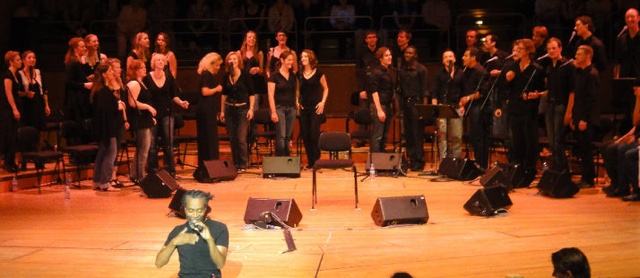
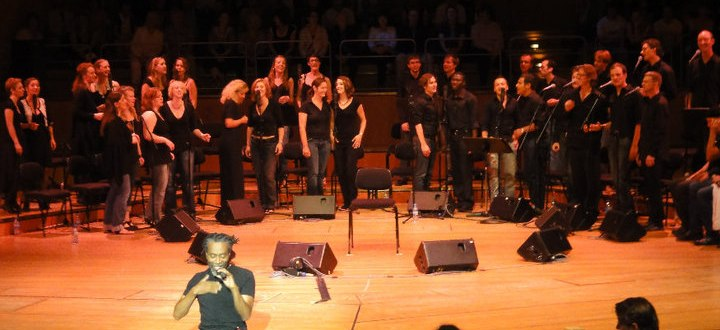
Update images sizes

diff --git a/index.html b/index.html
@@ -137,6 +137,7 @@
                   </p>
                 </div>
                 <div class="content" id="munich-wedding-singers">
+                  <img src="img/projects/munich-wedding-singers.jpg">
                   <h3 class="subtitle">// Munich Wedding Singers</h3>
                   <p>
                     Die Munich Wedding Singers sind ein freier Zusammenschluss von Sängern*innen, die auf Hochzeiten in der Kirche und/oder beim Sektempfang moderne Hochzeitslieder zum Besten geben. Die Besetzung kann nach individuellen Wünschen zusammen gestellt werden, von 2 Stimmen mit Gitarre bis zu 15 Stimmen a cappella ist alles möglich. Ebenso können Songwünsche des Brautpaares erfüllt werden.
@@ -175,6 +176,7 @@
                   </p>
                 </div>
                 <div class="content" id="diverses">
+                  <img src="img/projects/misc.jpg">
                   <h3 class="subtitle">// Diverses</h3>
                   <ul>
                     <li>Arrangeur, Sänger und Gitarrist für <a target="_blank" href="https://www.amazon.de/Pete-York-Susie-Swing-Revue/dp/B003ALJSPE/ref=sr_1_1?ie=UTF8&qid=1325779760&sr=8-1">Susie Who (live & Studio)</a></li>

diff --git a/css/application.css b/css/application.css
@@ -245,8 +245,9 @@ span.small {
   color: #ccc;
 }
 
-#project-description {
-  max-width: 680px;
+.container {
+  max-width: 1000px;
+  margin-left: 1.5rem;
 }
 
 #project-description img {
